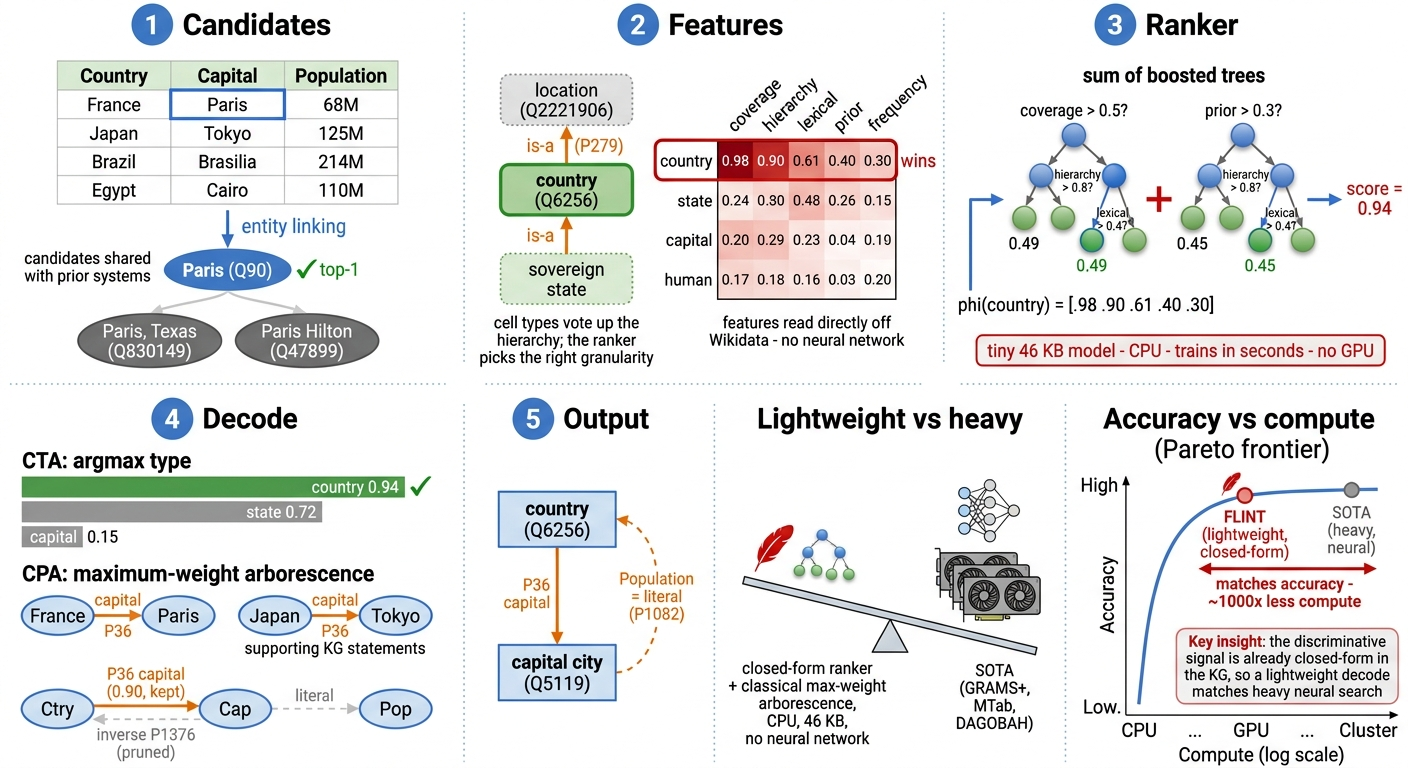
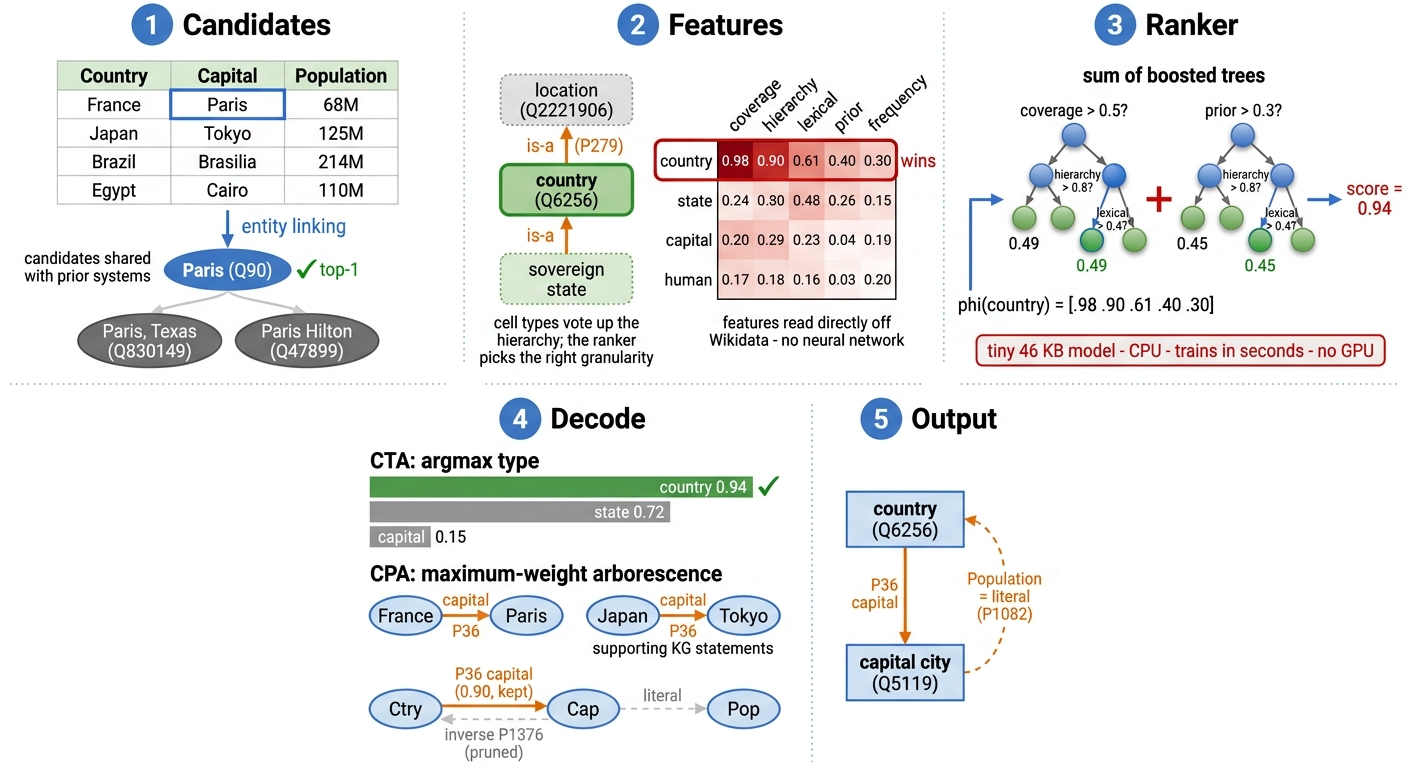
Update

diff --git a/figures/pareto.tex b/figures/pareto.tex
@@ -1,0 +1,47 @@
+% === Figure: Pareto scatter -- accuracy vs compute =========================
+% The "lightweight beats heavy" money plot. y-axis = accuracy (CONFIRMED CTA
+%   identical-protocol numbers); x-axis = compute.
+% FLINT's compute is now a CONCRETE anchor: ~0.1 s CTA GBM fit + 46.4 KB model,
+%   CPU (scripts/flint_efficiency.py). GRAMS+'s compute position is kept QUALITATIVE
+%   /relative (heavier: GPU + 2 trained MLPs + Steiner search) -- we did NOT time
+%   GRAMS+, so its x-coordinate is a relative placeholder, NOT a measured number.
+% Standalone-includable: \input{figures/pareto.tex} inside a figure environment.
+\begin{tikzpicture}
+\begin{axis}[
+    width=0.85\linewidth, height=6cm,
+    xlabel={Training compute (CPU-seconds; log scale)},
+    ylabel={CTA cscore micro-F1},
+    xmode=log,
+    xmin=0.03, xmax=5000,
+    ymin=0.70, ymax=0.80,
+    grid=both, grid style={gray!20},
+    legend pos=south east,
+    legend cell align=left,
+    every axis plot/.append style={thick},
+]
+% FLINT: CONCRETE cost anchor -- 0.10 s CTA GBM fit (+ 46.4 KB model), CPU.
+%   Placed at x=0.1 s (measured). High accuracy -> cheap-and-accurate corner.
+\addplot[only marks, mark=*, mark size=3pt, color=blue]
+    coordinates {(0.1, 0.782)};   % FLINT: 0.10 s CTA fit, 46.4 KB, CPU (MEASURED)
+\addlegendentry{FLINT (ours): 0.1\,s fit, 46\,KB, CPU}
+% GRAMS+ algorithm: heavier -- GPU + 2 trained MLPs + Steiner. x is a RELATIVE
+%   placeholder (we did NOT time GRAMS+), shown only to convey "far to the right".
+\addplot[only marks, mark=square*, mark size=3pt, color=red]
+    coordinates {(2000, 0.732)}; % GRAMS+ algorithm (x RELATIVE/qualitative, not timed)
+\addlegendentry{GRAMS+ alg. (GPU, heavier; x qual.)}
+\addplot[only marks, mark=triangle*, mark size=3pt, color=black!60]
+    coordinates {(0.05, 0.722)};  % counting baseline: parameter-free (relative)
+\addlegendentry{Counting baseline (parameter-free)}
+% reference: published GRAMS+ (different protocol/snapshot) as a hollow marker
+\addplot[only marks, mark=square, mark size=3pt, color=red!60]
+    coordinates {(3000, 0.789)}; % published GRAMS+ P2 (ref; different protocol)
+\addlegendentry{GRAMS+ published (ref., diff.\ protocol)}
+\node[anchor=west, font=\scriptsize, blue]   at (axis cs:0.1, 0.782) {FLINT};
+\end{axis}
+\end{tikzpicture}
+
+% NOTE: FLINT's x-coordinate (0.1 s) is MEASURED (0.10 s CTA GBM fit on CPU; the
+%   model is 46.4 KB; one-time frozen SBERT encode is 30.9 s, amortized and not a
+%   per-run training cost). GRAMS+'s x-coordinate is a RELATIVE/qualitative placement
+%   conveying "much heavier (GPU + two trained MLPs + Steiner search)"; it was NOT
+%   timed and is not a fabricated wall-clock. y-values are CONFIRMED accuracy.

diff --git a/figures/cta_offset.tex b/figures/cta_offset.tex
@@ -1,0 +1,33 @@
+% === Figure: CTA granularity-offset diagnostic ============================
+% CONFIRMED numbers (offset of majority-direct type vs gold):
+%   65.6% exact match ; 27.6% gold is a strict ANCESTOR (direct type too specific) ;
+%   0.2% gold is finer ; 6.6% off-path.
+% This reframes CTA as a granularity-SELECTION problem, not a reachability problem
+%   (gold is reachable 97% of the time within a 4-hop P31 closure).
+% Standalone-includable: \input{figures/cta_offset.tex} inside a figure env.
+\begin{tikzpicture}
+\begin{axis}[
+    width=0.9\linewidth, height=4.2cm,
+    xbar stacked,
+    xmin=0, xmax=100,
+    y=0.9cm,
+    xlabel={Share of columns (\%)},
+    ytick=\empty,
+    bar width=18pt,
+    nodes near coords,
+    every node near coord/.append style={font=\scriptsize},
+    legend style={at={(0.5,-0.35)}, anchor=north, legend columns=2, font=\scriptsize, draw=none},
+    legend cell align=left,
+]
+% single stacked bar: each segment = one offset class (CONFIRMED).
+\addplot+[xbar] coordinates {(65.6,0)};  \addlegendentry{exact match (65.6\%)}
+\addplot+[xbar] coordinates {(27.6,0)};  \addlegendentry{gold is ancestor -- direct too specific (27.6\%)}
+\addplot+[xbar] coordinates {(0.2,0)};   \addlegendentry{gold is finer (0.2\%)}
+\addplot+[xbar] coordinates {(6.6,0)};   \addlegendentry{off-path (6.6\%)}
+\end{axis}
+\end{tikzpicture}
+
+% Caption guidance (place when included): the dominant error mode is the
+% majority-direct type being TOO SPECIFIC (27.6% of columns need to climb to an
+% ancestor), with only 6.6% genuinely off-path. Hence the task is granularity
+% SELECTION, not reachability -- exactly what FLINT's learned ranker addresses.

diff --git a/figures/cpa_precision.tex b/figures/cpa_precision.tex
@@ -1,0 +1,29 @@
+% === Figure: CPA precision-from-Steiner bar ================================
+% CONFIRMED: threshold decode P = 0.761 ; arborescence/Steiner decode P = 0.805.
+%   Recall is ~equal (0.578 vs 0.582), so the global-consistency constraint buys
+%   precision. Same per-link scores for both decoders -> clean ablation.
+% Standalone-includable: \input{figures/cpa_precision.tex} inside a figure env.
+\begin{tikzpicture}
+\begin{axis}[
+    width=0.7\linewidth, height=5cm,
+    ybar,
+    bar width=28pt,
+    ymin=0.70, ymax=0.85,
+    ylabel={CPA precision},
+    symbolic x coords={Threshold, Arborescence},
+    xtick=data,
+    nodes near coords,
+    every node near coord/.append style={font=\small},
+    enlarge x limits=0.5,
+]
+\addplot[fill=red!30] coordinates {(Threshold,0.761) (Arborescence,0.805)};
+% annotate equal-recall context
+\node[anchor=south, font=\scriptsize] at (axis cs:Threshold,0.761) {R$=0.578$};
+\node[anchor=south, font=\scriptsize] at (axis cs:Arborescence,0.805) {R$=0.582$};
+\end{axis}
+\end{tikzpicture}
+
+% Caption guidance (place when included): identical FLINT per-link scores; the only
+% change is the decoder. The maximum-weight arborescence (one parent per column, no
+% cycles) lifts PRECISION 0.761 -> 0.805 at unchanged recall -- the same global
+% consistency GRAMS+'s Steiner tree provides, here from a textbook graph algorithm.

diff --git a/scripts/make_figures.py b/scripts/make_figures.py
@@ -170,7 +170,7 @@ def fig_el_gap():
     # (label, [CTA, CPA], colour, hatch)  -- FLINT solid; published SOTA (own EL) hatched
     series = [
         ("FLINT (gold EL)", [0.782, 0.676], FLINT_C, None),
-        ("FLINT (real EL)", [0.737, 0.654], ORANGE, None),
+        ("FLINT (real EL)", [0.744, 0.662], ORANGE, None),
         ("GRAMS+",  [S["cta"]["vs_GRAMS+"]["their"],  S["cpa"]["vs_GRAMS+"]["their"]],  SKY,  "//"),
         ("DAGOBAH", [S["cta"]["vs_DAGOBAH"]["their"], S["cpa"]["vs_DAGOBAH"]["their"]], GREEN, "//"),
         ("MTab",    [S["cta"]["vs_MTab"]["their"],    S["cpa"]["vs_MTab"]["their"]],    PURP, "//"),
@@ -182,7 +182,7 @@ def fig_el_gap():
         for r in bars:
             ax.annotate(f"{r.get_height():.2f}", (r.get_x()+r.get_width()/2, r.get_height()),
                         textcoords="offset points", xytext=(0, 1.5), ha="center", fontsize=5.4, rotation=90)
-    ax.annotate("real-EL FLINT-CPA ties GRAMS+,\nbeats DAGOBAH & MTab (all own-EL)", xy=(1 - 1.5*w, 0.654),
+    ax.annotate("real-EL FLINT-CPA ties GRAMS+,\nbeats DAGOBAH & MTab (all own-EL)", xy=(1 - 1.5*w, 0.662),
                 xytext=(1.05, 0.86), ha="center", fontsize=6.4, color="#9A6B00",
                 arrowprops=dict(arrowstyle="-|>", color="#9A6B00", lw=0.9))
     ax.set_xticks(x); ax.set_xticklabels(["CTA (cscore)", "CPA (micro-F1)"])
@@ -196,13 +196,13 @@ def fig_el_gap():
 def fig_coverage_traj():
     """Real-EL CTA climbs monotonically with candidate coverage then plateaus, localizing the gap to EL not the ranker."""
     prog = RES["multi_dataset"]["real_candidate_250wt_progression"]
-    xs = [57.5, 78.2, 78.9]
+    xs = [57.5, 78.2, 79.5]
     flint = [prog["57.5pct_cov"]["flint"], prog["78.2pct_cov"]["flint"],
-             prog["converged_95.9pct_mention_cache_78.9pct_col_cov"]["flint"]]
+             prog["warmed_83.4pct_mention_79.5pct_col_cov"]["flint"]]
     grams = [prog["57.5pct_cov"]["grams_algo"], prog["78.2pct_cov"]["grams_algo"],
-             prog["converged_95.9pct_mention_cache_78.9pct_col_cov"]["grams_algo"]]
+             prog["warmed_83.4pct_mention_79.5pct_col_cov"]["grams_algo"]]
     count = [prog["57.5pct_cov"]["counting"], prog["78.2pct_cov"]["counting"],
-             prog["converged_95.9pct_mention_cache_78.9pct_col_cov"]["counting"]]
+             prog["warmed_83.4pct_mention_79.5pct_col_cov"]["counting"]]
     fig, ax = plt.subplots(figsize=(4.5, 3.3))
     ax.plot(xs, flint, "-", color=FLINT_C, lw=2.0, zorder=3)
     ax.scatter(xs, flint, s=70, color=FLINT_C, marker="D", zorder=4, **EDGE)
@@ -212,7 +212,7 @@ def fig_coverage_traj():
     ax.scatter(xs, count, s=45, color=GREY, marker="^", zorder=3, **EDGE)
     ax.axhline(0.782, color=FLINT_C, lw=1.1, ls=(0, (4, 3)), alpha=0.7)
     ax.text(60.5, 0.788, "gold-entity ceiling 0.782", fontsize=7, color=BLK, ha="center")
-    ax.annotate("plateau (unlinkable\ncolumns ~21%)", (78.9, flint[-1]), textcoords="offset points",
+    ax.annotate("plateau (unlinkable\ncolumns ~21%)", (79.5, flint[-1]), textcoords="offset points",
                 xytext=(-4, -28), fontsize=7, ha="right", color=BLK)
     ax.set_xlabel("candidate-cache column coverage (%)")
     ax.set_ylabel("250WT CTA (cscore)")